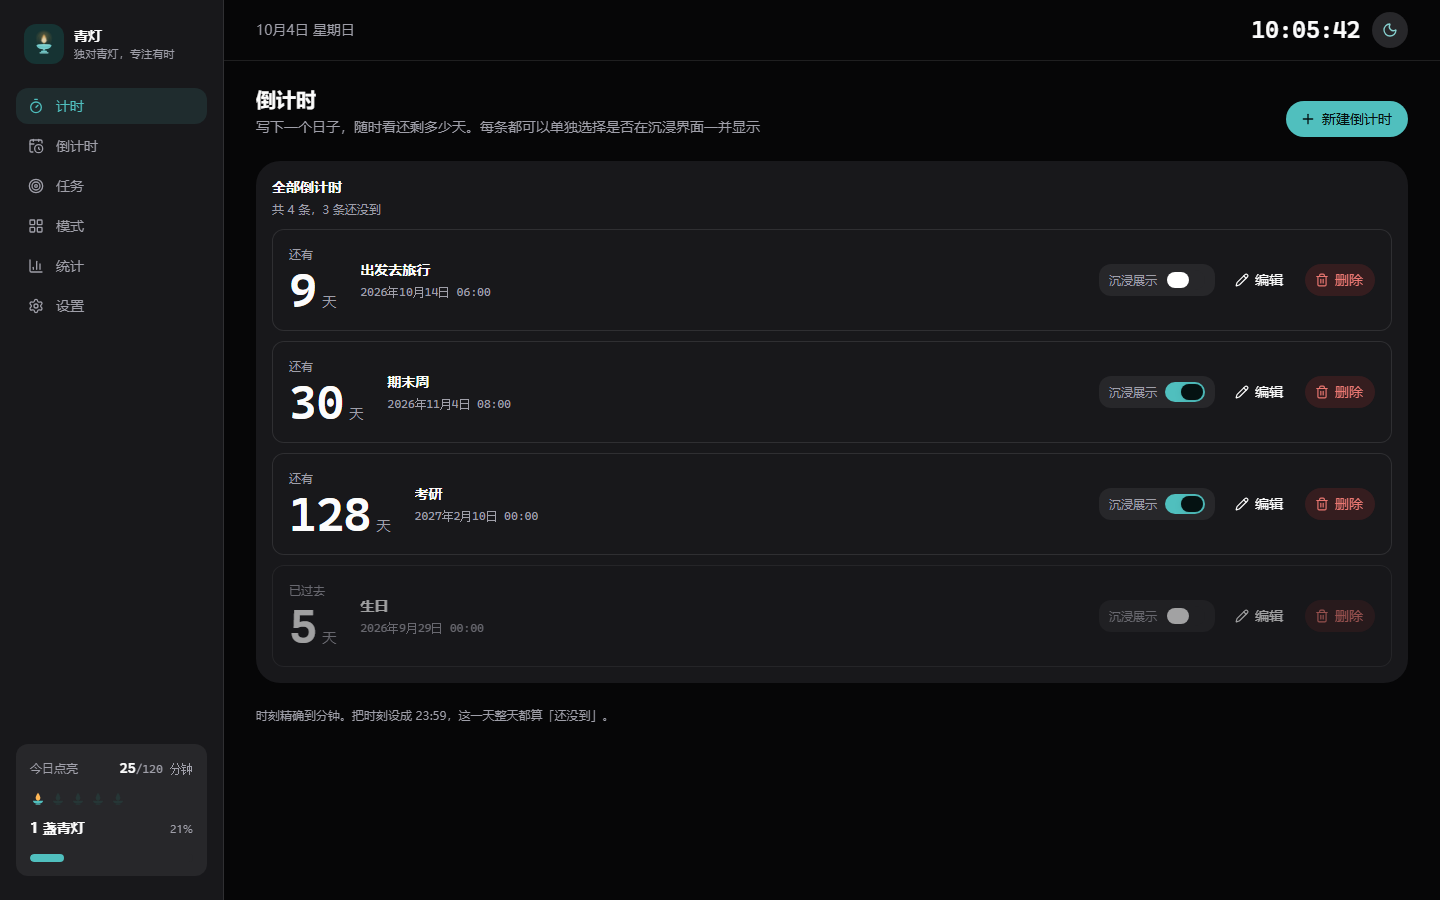
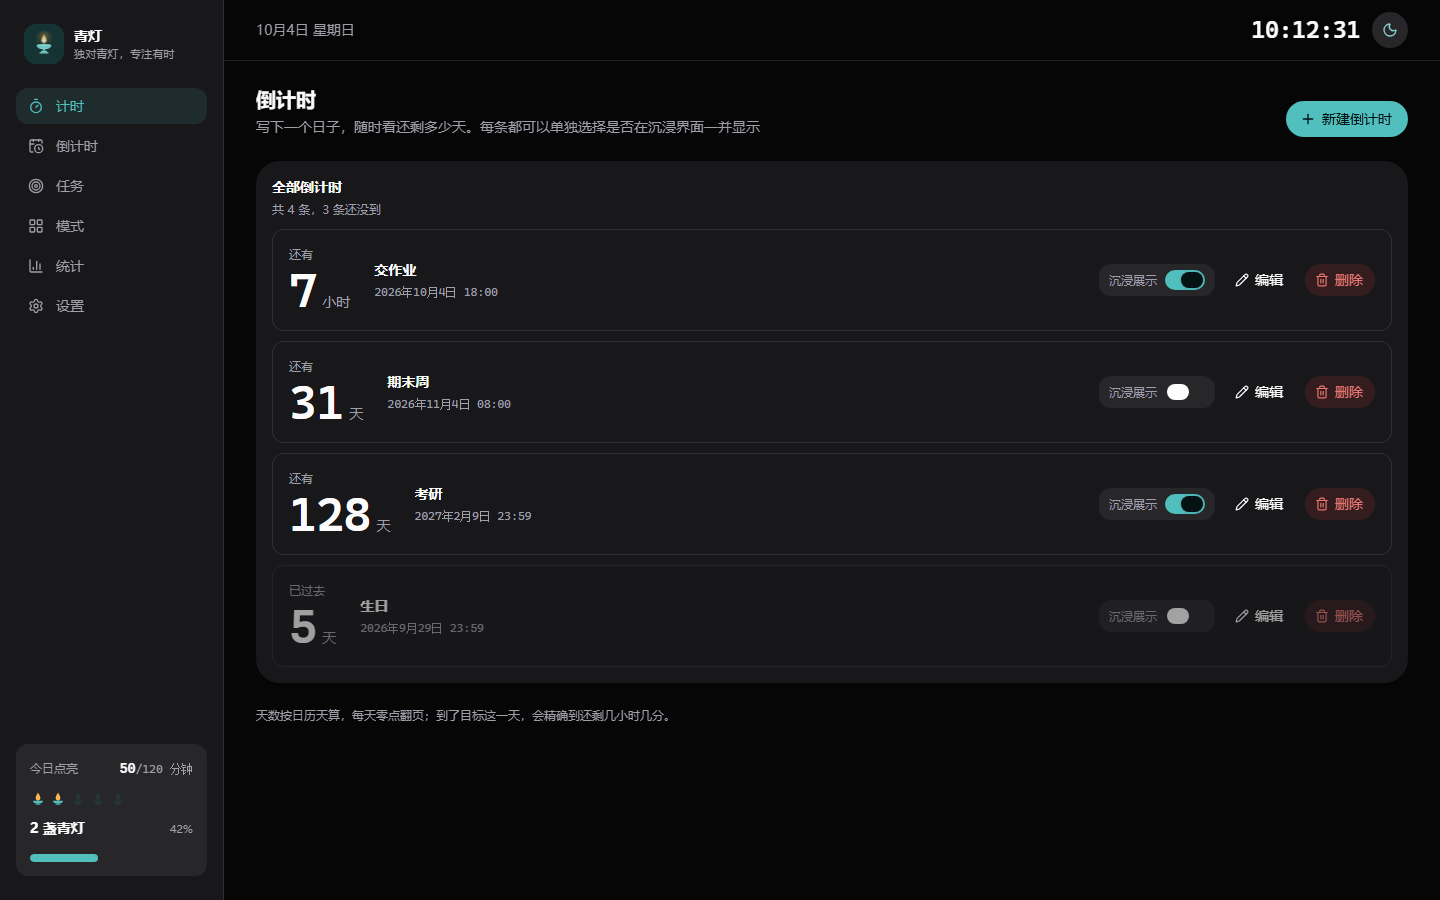
Count countdown days by calendar day
Days now step down at midnight instead of tracking the exact target
moment, so a date reads the same all day. On the target day the
readout switches to hours and minutes. New countdowns default to
23:59 so the whole day still counts as upcoming.

diff --git a/src/lib/countdown.ts b/src/lib/countdown.ts
@@ -4,23 +4,31 @@ const MINUTE = 60_000;
 const HOUR = 60;
 const DAY = 24 * HOUR;
 
-/** 剩余时间拆成天 / 小时 / 分钟，全部向下取整 */
+/** 剩余时间拆成天 / 小时 / 分钟 */
 export interface CountdownParts {
   /** 目标时刻已经过去了 */
   past: boolean;
+  /** 日历天：今天到目标日期中间隔几个零点，每天零点减一 */
   days: number;
+  /** 小时与分钟：到了目标这一天才会用到，精确到这一天的时刻 */
   hours: number;
   minutes: number;
 }
 
 const pad = (value: number) => String(value).padStart(2, "0");
 
+const startOfDay = (date: Date) =>
+  new Date(date.getFullYear(), date.getMonth(), date.getDate()).getTime();
+
 /**
- * 距离某个时刻还有多久。
+ * 距离某个日子还有多久。
  *
- * 向下取整：写「还有 128 天」时那 128 天是完整的，剩多少小时另说。
- * 目标时刻是「到达那一刻」，所以给考试日设成当天 00:00 的话，
- * 前一天晚上就会显示「还有 1 小时」，而不是「还有 1 天」。
+ * 天用**日历天**：中间隔几个零点就是几天。这样「还有 128 天」一整天都是 128，
+ * 到零点才减一；如果按两个时刻的差值去算，目标设成 08:30 的话，
+ * 每天的 08:30 数字就跳一次，同一个日子里下午和晚上会显示不同的天数。
+ *
+ * 小时与分钟只在目标这一天用：到了那一天，改成报还剩几小时几分。
+ * 目标时刻本身仍然精确到分钟，决定的是这一天里从什么时候算「到了」。
  */
 export function countdownParts(targetAt: string | Date, now: Date): CountdownParts {
   const target = targetAt instanceof Date ? targetAt : new Date(targetAt);
@@ -29,11 +37,13 @@ export function countdownParts(targetAt: string | Date, now: Date): CountdownPar
     return { past: false, days: 0, hours: 0, minutes: 0 };
   }
 
+  const days = Math.round((startOfDay(target) - startOfDay(now)) / 86_400_000);
   const diff = targetMs - now.getTime();
   const total = Math.floor(Math.abs(diff) / MINUTE);
+
   return {
     past: diff < 0,
-    days: Math.floor(total / DAY),
+    days: Math.abs(days),
     hours: Math.floor((total % DAY) / HOUR),
     minutes: total % 60,
   };
@@ -41,7 +51,7 @@ export function countdownParts(targetAt: string | Date, now: Date): CountdownPar
 
 /**
  * 一句话说清剩余时间，用在放不下大数字的地方（沉浸模式、提醒文字）。
- * 一天以上只报到天，一天以内报到分钟，与卡片上那个大数字保持一致。
+ * 一天以上只报到天，到了那一天报到分钟，与卡片上那个大数字同一套口径。
  */
 export function formatRemaining(parts: CountdownParts) {
   const head = parts.past ? "已过去" : "还有";
@@ -102,10 +112,13 @@ export function fromDateTimeInput(dateValue: string, timeValue: string): string 
   return value.toISOString();
 }
 
-/** 新建时默认停在下一天的 00:00 */
+/** 新建时默认停在下一天的 23:59，也就是「整天都算还没到」 */
 export function defaultTargetDate(now: Date) {
   const next = new Date(now);
   next.setDate(next.getDate() + 1);
   next.setHours(0, 0, 0, 0);
   return toDateKey(next);
 }
+
+/** 与默认日期配套的默认时刻 */
+export const DEFAULT_TARGET_TIME = "23:59";

diff --git a/scripts/dom-check.tsx b/scripts/dom-check.tsx
@@ -157,12 +157,15 @@ const countdownEditorHtml = renderToStaticMarkup(
 );
 
 // 倒计时的时间计算全是纯函数，直接验算：
-// 目标 2026-12-26 00:00，站在 2026-11-20 09:30 看
+// 目标 2026-12-26，站在 2026-11-20 09:30 看，中间隔 36 个零点
 const cdFuture = countdownParts(new Date(2026, 11, 26, 0, 0), new Date(2026, 10, 20, 9, 30));
-// 站在目标前 5 小时 20 分看
-const cdImminent = countdownParts(new Date(2026, 11, 26, 0, 0), new Date(2026, 11, 25, 18, 40));
+// 目标当天看：2026-12-26 08:30，站在 03:10 看，还差 5 小时 20 分
+const cdImminent = countdownParts(new Date(2026, 11, 26, 8, 30), new Date(2026, 11, 26, 3, 10));
 // 站在目标后 3 天看
 const cdPast = countdownParts(new Date(2026, 11, 26, 0, 0), new Date(2026, 11, 29, 1, 0));
+// 同一个日子里换时间点，天数应保持不变（零点才翻页）
+const cdSameMorning = countdownParts(new Date(2026, 11, 26, 0, 0), new Date(2026, 10, 20, 0, 5));
+const cdSameNight = countdownParts(new Date(2026, 11, 26, 0, 0), new Date(2026, 10, 20, 23, 55));
 
 const csv = sessionsToCsv([
   {
@@ -610,16 +613,19 @@ const checks: [string, boolean, string][] = [
     `可见标签 ${count(shellHtml, ">倒计时<")} 处，图标栏 ${count(shellHtml, 'aria-label="倒计时"')} 处`,
   ],
   [
-    "倒计时的剩余时间按天 / 小时 / 分钟逐级取整",
-    cdFuture.days === 35 &&
-      cdFuture.hours === 14 &&
-      cdFuture.minutes === 30 &&
-      !cdFuture.past &&
-      formatRemaining(cdFuture) === "还有 35 天",
-    `${cdFuture.days} 天 ${cdFuture.hours} 小时 ${cdFuture.minutes} 分 / ${formatRemaining(cdFuture)}`,
+    "倒计时的天数按日历天算，零点才翻页",
+    cdFuture.days === 36 && !cdFuture.past && formatRemaining(cdFuture) === "还有 36 天",
+    `${cdFuture.days} 天 / ${formatRemaining(cdFuture)}`,
   ],
   [
-    "不足一天时换成小时与分钟",
+    "同一天里换时间点，天数不变",
+    cdSameMorning.days === 36 &&
+      cdSameNight.days === 36 &&
+      cdSameMorning.days === cdSameNight.days,
+    `00:05 → ${cdSameMorning.days} 天，23:55 → ${cdSameNight.days} 天`,
+  ],
+  [
+    "到了目标这一天改成报小时与分钟",
     cdImminent.days === 0 &&
       primaryUnit(cdImminent).unit === "小时" &&
       primaryUnit(cdImminent).value === 5 &&
@@ -662,9 +668,9 @@ const checks: [string, boolean, string][] = [
     "倒计时编辑器用原生日期与时刻输入",
     countdownEditorHtml.includes('type="date"') &&
       countdownEditorHtml.includes('type="time"') &&
-      // 新建默认停在明天 00:00
+      // 新建默认停在明天 23:59，整天都算还没到
       countdownEditorHtml.includes('value="2026-12-27"') &&
-      countdownEditorHtml.includes('value="00:00"'),
+      countdownEditorHtml.includes('value="23:59"'),
     `默认日期=${/value="(\d{4}-\d{2}-\d{2})"/.exec(countdownEditorHtml)?.[1]}`,
   ],
   [

diff --git a/scripts/device-preview/seed.ts b/scripts/device-preview/seed.ts
@@ -45,40 +45,41 @@ export const SEED_TASKS = [
 ];
 
 /** 日期倒计时：偏移天数算成具体时刻，截图里的天数才稳定 */
-function atDayOffset(offset: number, hour: number) {
+function atDayOffset(offset: number, hour: number, minute = 0) {
   const date = new Date();
   date.setDate(date.getDate() + offset);
-  date.setHours(hour, 0, 0, 0);
+  date.setHours(hour, minute, 0, 0);
   return date.toISOString();
 }
 
 export const SEED_COUNTDOWNS = [
-  // 目标是「那天 00:00」，所以往后再移一天，显示出来才是整数天
+  // 今天到点：展示「还有几小时几分」那一档
   {
     id: 1,
-    title: "考研",
-    target_at: atDayOffset(129, 0),
+    title: "交作业",
+    target_at: atDayOffset(0, 18, 0),
     show_in_immersive: 1,
-    created_at: atDayOffset(-30, 9),
+    created_at: atDayOffset(-3, 9),
   },
   {
     id: 2,
     title: "期末周",
-    target_at: atDayOffset(31, 8),
-    show_in_immersive: 1,
+    target_at: atDayOffset(31, 8, 0),
+    show_in_immersive: 0,
     created_at: atDayOffset(-20, 9),
   },
+  // 时刻取当天 23:59，也就是「整天都算还没到」，天数就是偏移量
   {
     id: 3,
-    title: "出发去旅行",
-    target_at: atDayOffset(10, 6),
-    show_in_immersive: 0,
-    created_at: atDayOffset(-12, 9),
+    title: "考研",
+    target_at: atDayOffset(128, 23, 59),
+    show_in_immersive: 1,
+    created_at: atDayOffset(-30, 9),
   },
   {
     id: 4,
     title: "生日",
-    target_at: atDayOffset(-5, 0),
+    target_at: atDayOffset(-5, 23, 59),
     show_in_immersive: 0,
     created_at: atDayOffset(-40, 9),
   },

diff --git a/src/components/countdown/CountdownEditorDialog.tsx b/src/components/countdown/CountdownEditorDialog.tsx
@@ -2,7 +2,12 @@ import { useEffect, useState } from "react";
 import { Button, Input } from "@heroui/react";
 import { Dialog } from "@/components/ui/Dialog";
 import { ToggleSwitch } from "@/components/ui/ToggleSwitch";
-import { defaultTargetDate, formatTimeInput, fromDateTimeInput } from "@/lib/countdown";
+import {
+  DEFAULT_TARGET_TIME,
+  defaultTargetDate,
+  formatTimeInput,
+  fromDateTimeInput,
+} from "@/lib/countdown";
 import { toDateKey } from "@/lib/time";
 import type { CountdownDraft, CountdownRecord } from "@/lib/types";
 
@@ -26,7 +31,12 @@ interface FormState {
 
 function draftOf(countdown: CountdownRecord | null, now: Date): FormState {
   if (!countdown) {
-    return { title: "", date: defaultTargetDate(now), time: "00:00", showInImmersive: true };
+    return {
+      title: "",
+      date: defaultTargetDate(now),
+      time: DEFAULT_TARGET_TIME,
+      showInImmersive: true,
+    };
   }
   const target = new Date(countdown.targetAt);
   return {
@@ -129,7 +139,7 @@ export function CountdownEditorDialog({
       </div>
 
       <p className="text-xs text-muted">
-        倒计时走到这一天的这个时刻为止，精确到分钟。想让整天都算「还没到」，把时刻设成 23:59 即可。
+        天数按日历天算，每天零点翻页。时刻决定这一天里从什么时候算「到了」，默认到当天结束。
       </p>
 
       <div className="flex items-center justify-between gap-4 rounded-field bg-default px-3.5 py-3">

diff --git a/src/views/CountdownsPage.tsx b/src/views/CountdownsPage.tsx
@@ -108,7 +108,7 @@ export default function CountdownsPage() {
 
       {ordered.length > 0 ? (
         <p className="text-xs text-muted">
-          时刻精确到分钟。把时刻设成 23:59，这一天整天都算「还没到」。
+          天数按日历天算，每天零点翻页；到了目标这一天，会精确到还剩几小时几分。
         </p>
       ) : null}
 

diff --git a/scripts/interaction-check.tsx b/scripts/interaction-check.tsx
@@ -365,7 +365,8 @@ async function main() {
       {
         id: 1,
         title: "考研",
-        targetAt: inDays(129, 0),
+        // 时刻取当天 23:59，天数就等于偏移的日历天数
+        targetAt: inDays(128, 23),
         showInImmersive: true,
         createdAt: inDays(-10, 9),
       },

diff --git a/docs/DEVELOPMENT.md b/docs/DEVELOPMENT.md
@@ -529,16 +529,17 @@ countdowns
 
 表由第二个 Migration 建（`add_countdowns`），已有的库升级时只跑这一条。
 
-### 两个容易写错的地方
+### 三个容易写错的地方
 
 1. **不能用 `new Date("2026-12-26")` 解析日期输入**。那个写法按 UTC 解析，东八区会变成前一天早上 8 点，倒计时整整差一天。`fromDateTimeInput()` 把日期与时刻拆成数字后按本地时间逐段构造，并校验没有溢出（2 月 30 日会被 `Date` 顺延到下个月，这里挡掉）。
 2. **`<input type="date">` 与 `<input type="time">` 用原生控件**。安卓上会直接唤起系统选择器，比自造日历对手机友好得多，也天然满足「精确到分钟」；样式用 `--field-*` 变量对齐 HeroUI 的输入框。
+3. **天数要按日历天算，不要拿两个时刻做差**。差值算法下目标设成 08:30 的话，每天的 08:30 数字就会跳一次，同一个日子的下午和晚上显示的天数还不一样。`countdownParts()` 先把两边归到当天零点再做差，天数才稳定。
 
 ### 显示约定
 
-- 剩余时间逐级向下取整：写「还有 128 天」时那 128 天是完整的。
-- 一天以上只报天数，一天以内报到小时与分钟，`formatRemaining()` 与卡片上那个大数字用同一套口径。
-- 目标时刻是「到达那一刻」，所以把考试日设成当天 00:00 的话，前一天晚上会显示「还有 1 小时」；想让整天都算没到，把时刻设成 23:59。
+- **天数按日历天算，零点翻页**：中间隔几个零点就是几天。这样「还有 128 天」一整天都是 128，过零点才减一；同一个日子的早上和晚上看到的数字一样。
+- 一天以上只报天数；到了目标这一天，改成报到小时与分钟（`formatRemaining()` 与卡片上那个大数字用同一套口径）。
+- 目标时刻精确到分钟，决定的是这一天里从什么时候算「到了」。默认给到当天 23:59，也就是「整天都算还没到」；设成 08:30 就会在那天早上 8 点半落到 0。
 - 已经过去的日子沉到列表最后并置灰（`opacity-60`），不自动删。
 - 沉浸模式里它们是安静的一行字，**不跟着控制栏一起淡出**：那是信息，不是控件。
 

diff --git a/docs/release-notes/0.3.0.md b/docs/release-notes/0.3.0.md
@@ -4,7 +4,7 @@
 
 ## 新增
 
-- 日期倒计时：写下考研、出发这类日子，随时看还剩多少天。时刻精确到分钟，每条都能单独选择是否在沉浸界面一并显示
+- 日期倒计时：写下考研、出发这类日子，随时看还剩多少天。天数按日历天算、每天零点翻页，到目标当天再精确到还剩几小时几分；每条都能单独选择是否在沉浸界面一并显示
 - 手机适配：底部导航、单手够得着的控制条、统计记录改成卡片列表
 - 下载页 https://soulmte.github.io/qingdeng/ ，打开会自动填上最新版号和下载地址
 
